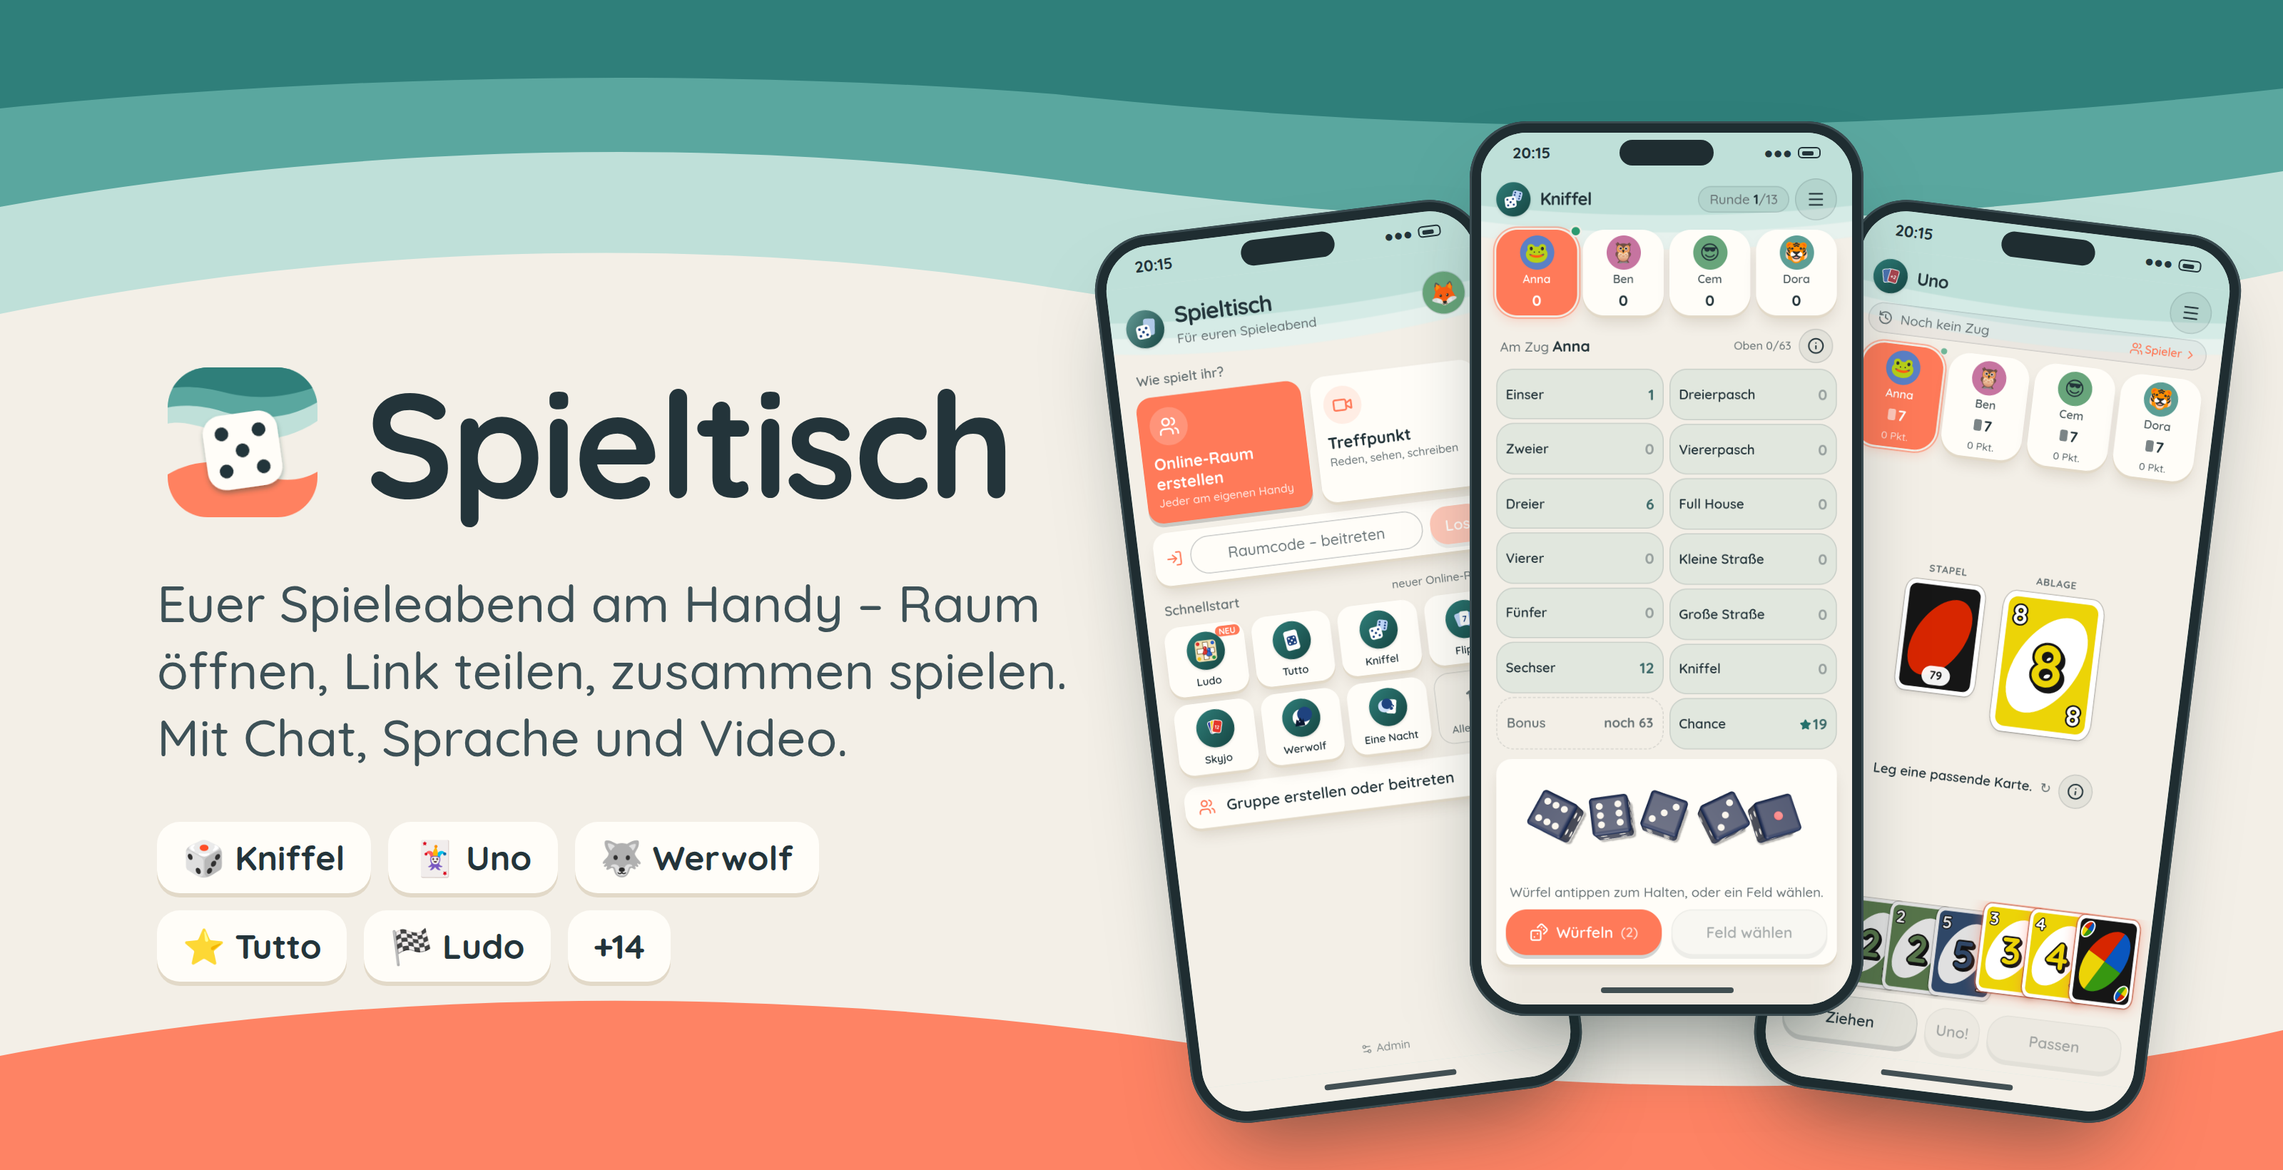
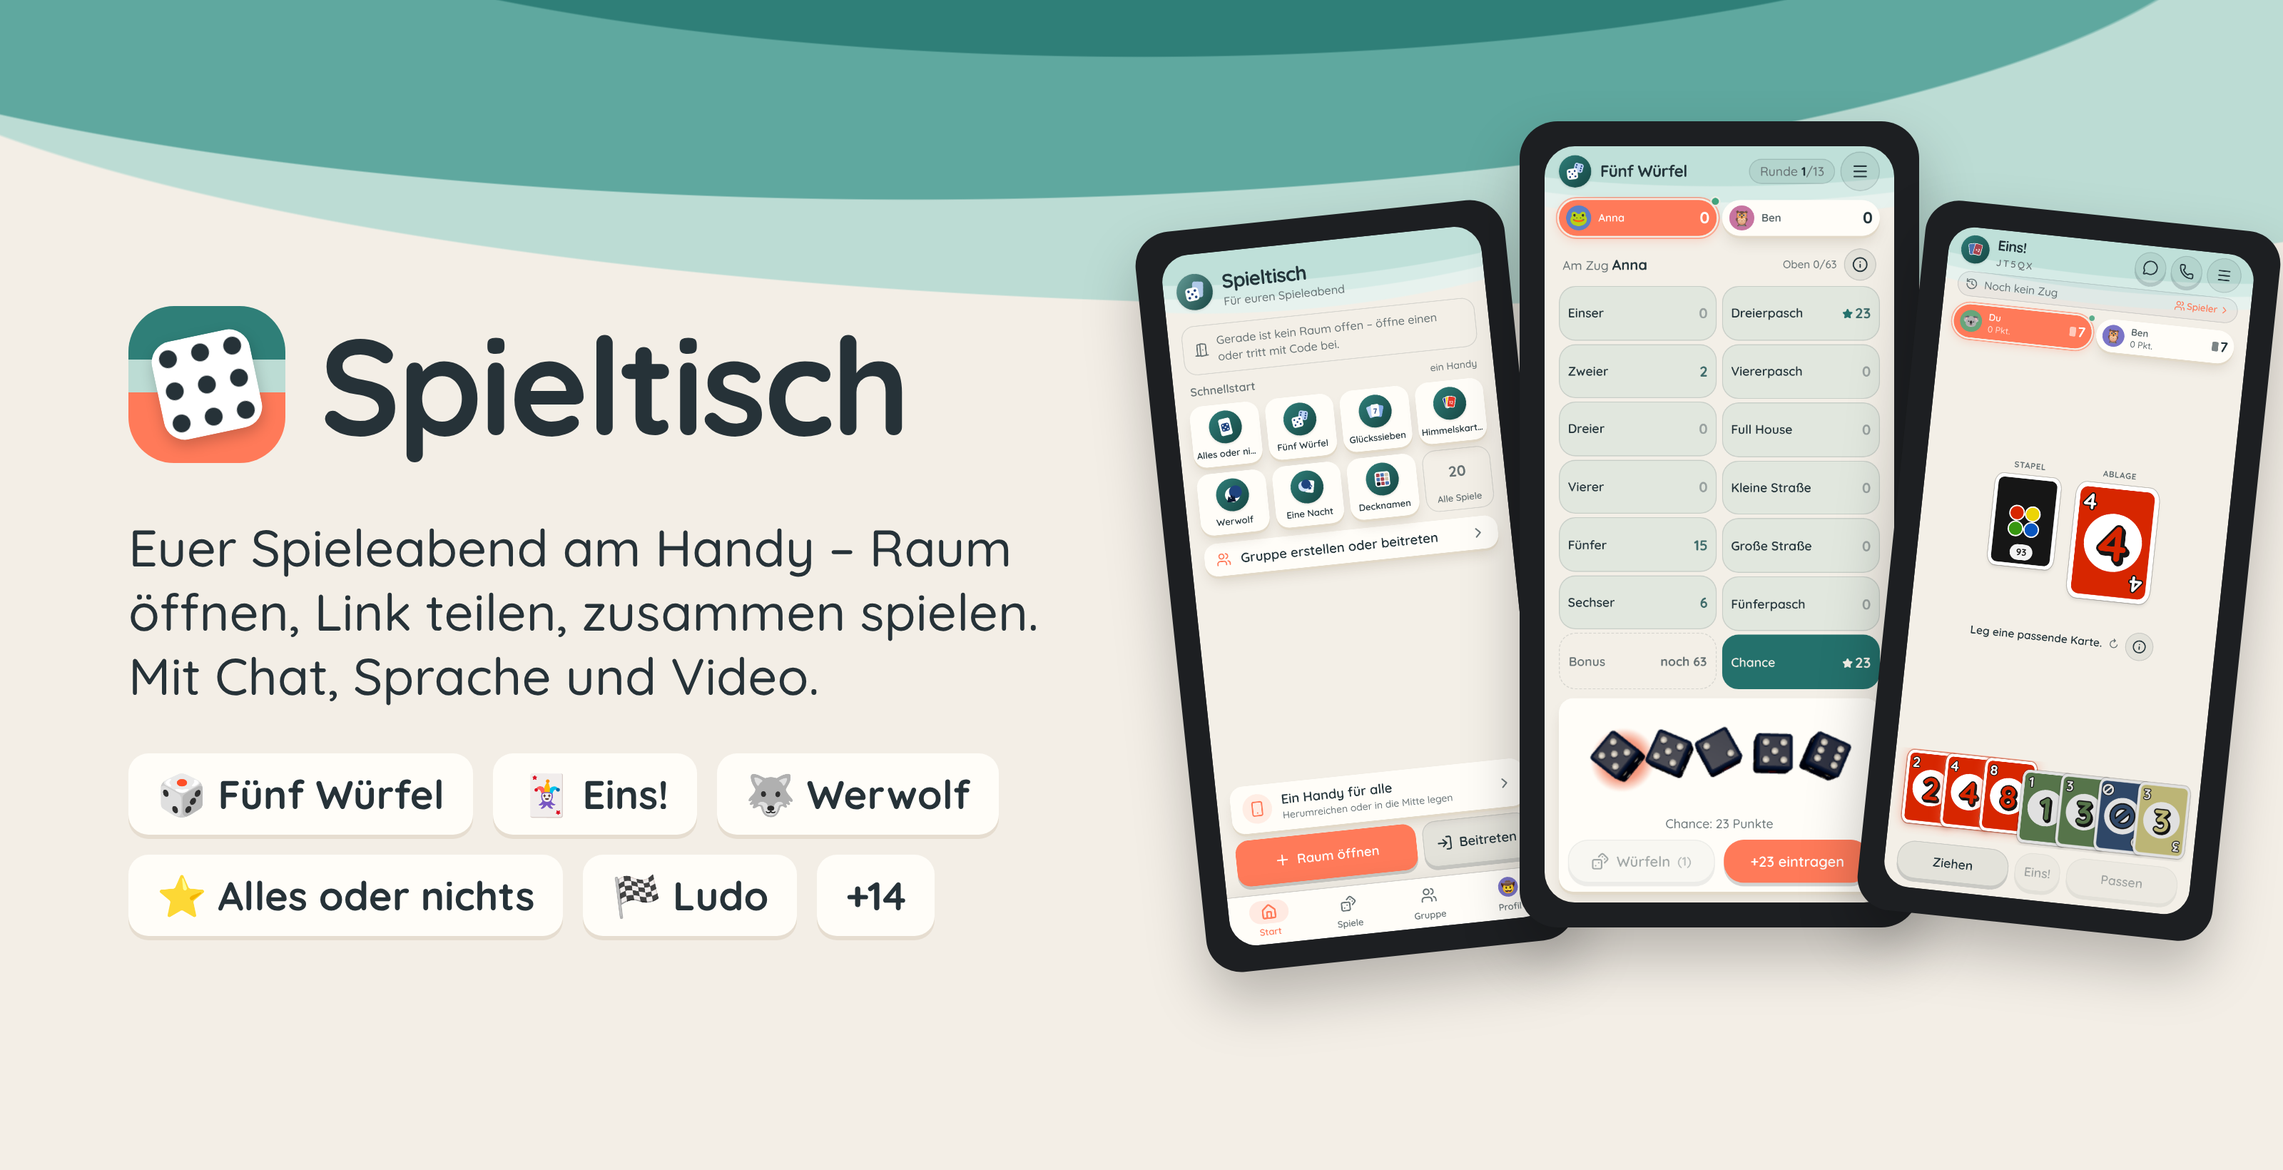
Stapelbau und Himmelskarten am Tisch (Beta), neue Werbebilder ohne Markennamen
- Bausteine „Stapel“ (Mitte) und „Auslage am Platz“ (unten: über dem Platz)
- Moderator-Sprechblase über der Kugel – verdeckt keinen Platz mehr
- Werbebilder per scripts/bilder.mjs aus frischen Screenshots
- „Partyabend planen“ passt in eine Zeile

Claude-Session: https://claude.ai/code/session_012QAHLP5tBdDc7ADJh6ArVM

diff --git a/src/pages/Table.tsx b/src/pages/Table.tsx
@@ -34,6 +34,7 @@ import { modeAllowed } from "@shared/platform/modes";
 import { SoundPanel, useTableSound } from "@/platform/table/sound";
 import { HostCorner, HostPanel, readMood, useTableHost } from "@/platform/table/host";
 import { FeltDice, FeltGrid } from "@/platform/table/blocks";
+import { FeltPiles, SeatBoard } from "@/platform/table/piles";
 import { CouchAdd, CouchPlayers, useCouch } from "@/platform/table/Couch";
 import { enableSpatialNav } from "@/lib/spatialNav";
 import { useCallReady, useCouchCam, useSeatVideos } from "@/platform/table/video";
@@ -310,7 +311,8 @@ export function TableStage({ room, online, model, sham, me, showSeats = true, on
         <Seat key={p.id} x={points[i].x} y={points[i].y} name={p.name} avatar={avatars[p.id]} count={sham ? undefined : model?.counts[p.id]}
           turn={model?.turn === p.id || sham?.czar === p.id} away={!online.has(p.id)} host={p.id === room.hostId}
           note={sham ? `${sham.scores[p.id] ?? 0} Pkt.${sham.czar === p.id ? " · Zar" : sham.phase === "pick" && sham.played[p.id] ? " · gelegt ✓" : ""}` : model?.notes?.[p.id]}
-          video={videos?.[p.id]} videoHidden={!!hiddenVideos?.has(p.id)} onToggleVideo={onToggleVideo ? () => onToggleVideo(p.id) : undefined} />
+          video={videos?.[p.id]} videoHidden={!!hiddenVideos?.has(p.id)} onToggleVideo={onToggleVideo ? () => onToggleVideo(p.id) : undefined}
+          board={model?.boards?.[p.id]} boardAbove={!!felt && points[i].y > felt.y + felt.h / 2} />
       ))}
       {reacts.map((r) => {
         const i = players.findIndex((p) => p.id === r.from);
@@ -318,9 +320,9 @@ export function TableStage({ room, online, model, sham, me, showSeats = true, on
         return at ? <span key={r.id} className="react-float pointer-events-none absolute text-6xl" style={{ left: at.x, top: at.y }} data-testid="table-react" aria-hidden>{r.emoji}</span> : null;
       })}
       {/* Bausteine auf dem Filz: Würfel, Spielfeld */}
-      {(model?.dice || model?.grid) && (
+      {(model?.dice || model?.grid || model?.piles) && (
         <OnFelt rect={felt}>
-          {model.grid ? <FeltGrid grid={model.grid} /> : model.dice && <FeltDice dice={model.dice} />}
+          {model.grid ? <FeltGrid grid={model.grid} /> : model.dice ? <FeltDice dice={model.dice} /> : model.piles && <FeltPiles piles={model.piles} />}
         </OnFelt>
       )}
       {/* Am Rechner sitzt oben ein Mitspieler – die Meldung steht dort unten auf dem Tisch */}
@@ -375,9 +377,13 @@ function TableCanvas({ model, seats, onSeats, forceFlat }: { model: TableModel |
   return <div ref={holder} className="absolute inset-0" />;
 }
 
-function Seat({ x, y, name, avatar, count, turn, away, host, note, video, videoHidden, onToggleVideo }: {
+function Seat({ x, y, name, avatar, count, turn, away, host, note, video, videoHidden, onToggleVideo, board, boardAbove }: {
   x: number; y: number; name: string; avatar?: Parameters<typeof Avatar>[0]["avatar"]; count?: number; turn: boolean; away: boolean; host: boolean; note?: string;
   video?: MediaStream; videoHidden?: boolean; onToggleVideo?: () => void;
+  /** offene Auslage des Spielers (z. B. Raster) unter dem Platz */
+  board?: NonNullable<TableModel["boards"]>[string];
+  /** Platz unten am Tisch: Auslage über dem Platz statt darunter (sonst ragt sie aus dem Bild) */
+  boardAbove?: boolean;
 }) {
   const showVideo = !!video && !videoHidden;
   const face = showVideo ? <SeatVideo stream={video} /> : <Avatar avatar={avatar} name={name} className="size-14 text-3xl" />;
@@ -396,6 +402,7 @@ function Seat({ x, y, name, avatar, count, turn, away, host, note, video, videoH
         {name}{count !== undefined && <span className="ml-1.5 tabular-nums opacity-75">· {count}</span>}{host && !count && count !== 0 ? <span className="ml-1 opacity-60">· Host</span> : null}
       </span>
       {note && <span className="text-sm font-semibold drop-shadow">{note}</span>}
+      {board && <div className={cn(boardAbove && "order-first")}><SeatBoard board={board} /></div>}
       {away && <span className="text-xs font-semibold">nicht verbunden</span>}
     </div>
   );

diff --git a/src/platform/table/piles.tsx b/src/platform/table/piles.tsx
@@ -1,0 +1,45 @@
+import { cn } from "@/lib/utils";
+import type { TableModel } from "./model";
+
+/**
+ * Bausteine für Zahlenkarten-Spiele am Tisch (über 3D- und flachem Tisch gleich):
+ *  - Stapel in der Mitte (Aufbaustapel, Ablage, Nachziehstapel) – die oberste Karte groß, darunter die Beschriftung,
+ *  - Auslage am Platz – kleines Raster offener Karten, verdeckte als „?“.
+ * Maße in cqh/cqw (Stapel, wachsen mit der Tischfläche) bzw. rem (Auslage unter dem Platzschild).
+ */
+
+/** Eine Zahlenkarte: Farbe als Rand und Zahl, weißes Feld */
+function NumCard({ text, tone, className }: { text: string; tone?: string; className?: string }) {
+  return (
+    <span className={cn("grid place-items-center rounded-[14%] border-[0.35em] bg-[#fbf7ef] font-bold text-[#1a1a1a] shadow-[0_4px_10px_rgb(0_0_0/0.35)]", className)}
+      style={{ borderColor: tone ?? "#8a6f4e", color: tone ?? "#1a1a1a" }}>{text}</span>
+  );
+}
+
+/** Stapel in der Mitte – leere als gestrichelter Platz, verdeckte (nur Anzahl) als Rückseite */
+export function FeltPiles({ piles }: { piles: NonNullable<TableModel["piles"]> }) {
+  return (
+    <div className="flex items-end justify-center gap-[2.4cqw]" data-testid="table-piles">
+      {piles.map((p, i) => (
+        <div key={i} className="flex flex-col items-center gap-[1.4cqh]" data-testid="table-pile">
+          {p.top !== null ? <NumCard text={p.top} tone={p.tone} className="h-[30cqh] w-[21cqh] text-[13cqh]" />
+            : p.count !== undefined ? (
+              <span className="grid h-[30cqh] w-[21cqh] place-items-center rounded-[14%] border-[0.6cqh] border-white bg-gradient-to-br from-[#2f6fb3] to-[#173a6b] text-[6cqh] font-bold text-white shadow-[0_4px_10px_rgb(0_0_0/0.35)]">{p.count}</span>
+            ) : <span className="h-[30cqh] w-[21cqh] rounded-[14%] border-[0.5cqh] border-dashed border-white/35" />}
+          <span className="text-[3.6cqh] font-semibold text-white/85 drop-shadow">{p.label}</span>
+        </div>
+      ))}
+    </div>
+  );
+}
+
+/** Auslage eines Spielers unter seinem Platz: offene Karten im Raster, verdeckte als „?“, leere Lücken bleiben frei */
+export function SeatBoard({ board }: { board: NonNullable<TableModel["boards"]>[string] }) {
+  return (
+    <div className="grid gap-[3px]" style={{ gridTemplateColumns: `repeat(${board.cols}, 1.7rem)` }} data-testid="seat-board">
+      {board.cells.map((c, i) => c === null ? <span key={i} className="h-[2.3rem]" />
+        : c === "?" ? <span key={i} className="grid h-[2.3rem] place-items-center rounded-[5px] border-2 border-white bg-[#24508f] text-xs font-bold text-white/70">?</span>
+        : <NumCard key={i} text={c.text} tone={c.tone} className="h-[2.3rem] text-sm" />)}
+    </div>
+  );
+}

diff --git a/tests/e2e/table.spec.ts b/tests/e2e/table.spec.ts
@@ -521,3 +521,42 @@ test("Bühne bei Schamlos: schwarze Karte groß auf der Leinwand, Antworten eing
     await setConfig(request, ALL_ON);
   }
 });
+
+test("Stapelbau und Himmelskarten am Tisch: Stapel in der Mitte, offene Auslage an jedem Platz", async ({ browser, request }) => {
+  test.setTimeout(120_000);
+  await setConfig(request, { ...ALL_ON, modes: { stapelbau: { table: "on" }, himmelskarten: { table: "on" } } });
+  try {
+    const screen = await newScreen(browser);
+    await screen.goto("/tisch");
+    await screen.getByTestId("table-new").click();
+    await expect(screen).toHaveURL(/\/tisch\/[A-Z0-9]{5}$/);
+    const code = screen.url().split("/").pop()!;
+    const pin = (await screen.evaluate((c) => localStorage.getItem(`spieltisch:table:${c}`), code))!;
+    const anna = await joinByLink(browser, code, pin, "Anna");
+    await joinByLink(browser, code, pin, "Ben");
+
+    // Stapelbau: vier Aufbaustapel und der Nachziehstapel, an jedem Platz Vorrat + vier Ablagen
+    await anna.getByTestId("meet-play").click();
+    await anna.getByTestId("pick-stapelbau").click();
+    await anna.getByRole("button", { name: "Spiel starten" }).click();
+    await expect(screen.getByTestId("table-pile")).toHaveCount(5);
+    await expect(screen.getByTestId("seat-board")).toHaveCount(2);
+    await expect(screen.getByTestId("seat-board").first().locator("span")).toHaveCount(5);
+    await screen.waitForTimeout(500);
+    await shot(screen, "9c-tisch-stapelbau");
+
+    // Himmelskarten: Ziehen und Ablage in der Mitte, 12 Karten je Platz – anfangs verdeckt
+    await anna.getByRole("button", { name: "Menü" }).click();
+    await anna.getByRole("button", { name: "Spiel wechseln" }).click();
+    await anna.getByRole("button", { name: "Spiel wählen" }).click();
+    await anna.getByTestId("pick-himmelskarten").click();
+    await anna.getByRole("button", { name: "Spiel starten" }).click();
+    await expect(screen.getByTestId("table-pile")).toHaveCount(2);
+    await expect(screen.getByTestId("seat-board").first().locator("span")).toHaveCount(12);
+    await expect(screen.getByTestId("seat-board").first()).toContainText("?");
+    await screen.waitForTimeout(500);
+    await shot(screen, "9d-tisch-himmelskarten");
+  } finally {
+    await setConfig(request, ALL_ON);
+  }
+});

diff --git a/tests/unit/table.test.ts b/tests/unit/table.test.ts
@@ -49,5 +49,25 @@ describe("Großer Tisch: Modell aus der Sicht ohne eigene Karten", () => {
     expect(g.cells[0][3]).toBeNull();
     expect(g.last).toEqual([3, 5]);
   });
+
+  it("Zahlenkarten: Stapelbau zeigt Aufbaustapel und Vorrat + Ablagen am Platz, Himmelskarten das Raster – nur Offenes", () => {
+    const sb = viewRoom(act(roomWith(["Anna", "Ben"], "stapelbau"), { type: "start" }), WATCH_ID);
+    const m = tableModel(sb)!;
+    expect(m.piles?.map((p) => p.label)).toEqual(["Stapel 1", "Stapel 2", "Stapel 3", "Stapel 4", "Ziehen"]);
+    expect(m.piles?.slice(0, 4).every((p) => p.top === null)).toBe(true);
+    expect(m.boards?.p1.cells).toHaveLength(5);
+    // oberste Vorratskarte offen, Ablagen anfangs leer
+    expect(m.boards?.p1.cells[0]).not.toBeNull();
+    expect(m.boards?.p1.cells.slice(1).every((c) => c === null)).toBe(true);
+    expect(m.notes?.p1).toMatch(/^Vorrat \d+$/);
+
+    const sk = viewRoom(act(roomWith(["Anna", "Ben"], "himmelskarten"), { type: "start" }), WATCH_ID);
+    const h = tableModel(sk)!;
+    expect(h.boards?.p1.cols).toBe(4);
+    expect(h.boards?.p1.cells).toHaveLength(12);
+    // am Anfang alles verdeckt – der Tisch kennt die Werte nicht
+    expect(h.boards?.p1.cells.every((c) => c === "?")).toBe(true);
+    expect(h.piles?.[1].top).not.toBeNull();
+  });
 });
 

diff --git a/src/platform/table/host.tsx b/src/platform/table/host.tsx
@@ -134,9 +134,10 @@ export function HostCorner({ say, mood }: { say: Say | null; mood: Mood }) {
   }, []);
 
   return (
-    <div className="pointer-events-none absolute right-6 bottom-5 flex max-w-[min(34rem,60%)] items-end justify-end gap-2" data-testid="table-host">
+    // Sprechblase über der Kugel (rechts außen) – so verdeckt sie nie den Platz unten in der Mitte
+    <div className="pointer-events-none absolute right-6 bottom-5 flex w-[min(24rem,32%)] flex-col items-end gap-2" data-testid="table-host">
       {say && (
-        <p className={cn("text-in mb-6 rounded-2xl rounded-br-sm bg-[#f7ecd6] px-4 py-3 text-lg leading-snug font-semibold text-[#2b2118] shadow-xl", talking && "ring-2 ring-white/60")}
+        <p className={cn("text-in rounded-2xl rounded-br-sm bg-[#f7ecd6] px-4 py-3 text-lg leading-snug font-semibold text-[#2b2118] shadow-xl", talking && "ring-2 ring-white/60")}
           data-testid="table-host-line" aria-live="polite">{say.text}</p>
       )}
       <OrbHost mouth={mouth} blink={blink} mood={mood} className="size-36 shrink-0" />

diff --git a/src/platform/Evening.tsx b/src/platform/Evening.tsx
@@ -32,7 +32,7 @@ export function EveningLine({ className }: { className?: string }) {
       <>
         <button type="button" onClick={() => setPlanning(true)} data-testid="plan-open"
           className={cn("flex w-full items-center justify-center gap-2 rounded-xl py-1.5 text-sm font-semibold text-primary", className)}>
-          <PartyPopper className="size-4" />Partyabend planen – mehrere Spiele mit Gesamtwertung
+          <PartyPopper className="size-4" />Partyabend planen · Gesamtwertung
         </button>
         <PlanSheet open={planning} onOpenChange={setPlanning} />
       </>

diff --git a/shared/platform/modes.ts b/shared/platform/modes.ts
@@ -28,6 +28,9 @@ export const GAME_MODES: Record<string, Partial<Record<PlayMode, ModeState>>> = 
   // Bausteine Würfel und Spielfeld: abgenommen (docs/abnahme/fuenfwuerfel.md, vier.md)
   fuenfwuerfel: { table: "on", stage: "beta" },
   vier: { table: "on", stage: "beta" },
+  // Bausteine Stapel und Auslage am Platz – Beta bis zur Abnahme
+  stapelbau: { table: "beta" },
+  himmelskarten: { table: "beta" },
 };
 
 /** Spiele mit eigener Tisch-Ansicht (andere zeigt der Tisch wie ein Handy in der Mitte) */

diff --git a/tests/unit/modes.test.ts b/tests/unit/modes.test.ts
@@ -23,7 +23,7 @@ describe("Spielweisen je Spiel", () => {
     expect(modeAllowed({ eins: { table: "off" } }, "eins", "table", true)).toBe(false);
   });
   it("Tisch-Spiele sind echte Spiele", () => {
-    expect(TABLE_GAMES).toEqual(["maumau", "eins", "schamlos", "fuenfwuerfel", "vier"]);
+    expect(TABLE_GAMES).toEqual(["maumau", "eins", "schamlos", "fuenfwuerfel", "vier", "stapelbau", "himmelskarten"]);
     for (const id of Object.keys(GAME_MODES)) expect(id in GAMES).toBe(true);
   });
 });

diff --git a/docs/entwicklung.md b/docs/entwicklung.md
@@ -116,7 +116,7 @@ Unter `/tisch` baut ein großer Bildschirm einen Raum auf (oder zeigt einen lauf
 
 **Bühne (Showstudio)** (`src/platform/table/studio.ts`, `StudioStage` in `src/pages/Table.tsx`): 3D-Studio mit Leinwand und Pulten; die Seite legt Leinwand (`screenRect`) und Pult-Schilder (`podiumPoints`) als HTML darüber. Auf der Leinwand läuft der flache Tisch des Spiels (`TableStage flat`) bzw. vor der Partie Lobby oder Siegerehrung. Nur mit 3D und wenn die Spielweise `stage` für das Spiel erlaubt ist; bewegt nur ohne „reduzierte Bewegung“ (Scheinwerfer, Lichtleisten, ~30 Bilder/s), Kamerafahrt meldet sich über `onMove`.
 
-**Keine Markennamen:** Spiele heißen in der App, im Code, in Kennungen und Dateinamen nur mit eigenen Namen. Frühere Kennungen gespeicherter Daten übersetzt allein `shared/games/renamed.ts` (rückwärts geschrieben): Räume über das Raum-Format 2 (`ROOM_MIGRATIONS[1]`, auch Spielstand-Felder und Einstellungen), Statistik/Einstellungen/Archiv/Profile/Gruppen beim Laden (`renameStored`), Anfragen älterer Apps in `readBody`, Gerätespeicher in `readStr`/`readJSON`/`readLocal`, alte Links in `useRoute`. Neue Namen nie mit einer Marke verwechselbar wählen.
+**Keine Markennamen:** Spiele heißen in der App, im Code, in Kennungen und Dateinamen nur mit eigenen Namen. Frühere Kennungen gespeicherter Daten übersetzt allein `shared/games/renamed.ts` (rückwärts geschrieben): Räume über das Raum-Format 2 (`ROOM_MIGRATIONS[1]`, auch Spielstand-Felder und Einstellungen), Statistik/Einstellungen/Archiv/Profile/Gruppen beim Laden (`renameStored`), Anfragen älterer Apps in `readBody`, Gerätespeicher in `readStr`/`readJSON`/`readLocal`, alte Links in `useRoute`. Neue Namen nie mit einer Marke verwechselbar wählen. Werbebilder (`docs/images/*.png`, `public/og.png`) baut `node scripts/bilder.mjs` aus den Screenshots eines Testlaufs.
 
 **Partyabend** (`evening.plan` in `shared/platform/room.ts`): der Host legt mit `setPlan` 2–8 Spiele fest (`null` beendet den Plan). Jedes Spielende zählt `played` hoch, `toLobby` wählt das nächste Spiel mit Standard-Einstellungen, Rückgängig zählt zurück; `planStatus()` liefert nächstes Spiel und ob der Abend durch ist. Gewertet wird über die Abendliste (`eveningRanking`). Handy: Planen und Beenden im Abend-Blatt (`src/platform/Evening.tsx`); Fernseher: `PartyBoard` mit Zwischenstand bzw. Podest statt der Lobby-Karte.
 

diff --git a/docs/roadmap.md b/docs/roadmap.md
@@ -59,9 +59,9 @@ Erledigt: Spielweisen je Spiel (an/Beta/aus in der Verwaltung) ✅ · Grafik-Stu
 
 ## Phase 3 – Spiel für Spiel komplett 🔨
 
-**Keine Markennamen** ✅: Spiele mit Markennamen heißen jetzt Eins!, Stapelbau, Zehn Phasen, Decknamen, Himmelskarten, Glückssieben, Fünf Würfel und Alles oder nichts – in der App, im Code, in Kennungen und Dateinamen. Alte Räume, Statistiken, Profile, Gruppen, Einstellungen und Links laufen weiter (`shared/games/renamed.ts`). Offen: Bilder in `docs/images` neu aufnehmen.
+**Keine Markennamen** ✅: Spiele mit Markennamen heißen jetzt Eins!, Stapelbau, Zehn Phasen, Decknamen, Himmelskarten, Glückssieben, Fünf Würfel und Alles oder nichts – in der App, im Code, in Kennungen und Dateinamen. Alte Räume, Statistiken, Profile, Gruppen, Einstellungen und Links laufen weiter (`shared/games/renamed.ts`). Werbebilder neu aus aktuellen Screenshots (`node scripts/bilder.mjs`) ✅.
 
-**Stand:** abgenommen Mau-Mau, Eins!, Schamlos, Fünf Würfel, Vier in einer Reihe ✅ · am Tisch in Arbeit: Stapelbau, Himmelskarten (Bausteine „Stapel“ und „Auslage am Platz“) 🔨
+**Stand:** abgenommen Mau-Mau, Eins!, Schamlos, Fünf Würfel, Vier in einer Reihe ✅ · am Tisch als Beta: Stapelbau, Himmelskarten (neue Bausteine „Stapel“ in der Mitte und „Auslage am Platz“) ✅ – Abnahme nach dem Ausprobieren
 
 „Komplett“ = am Tisch spielbar (nur Rechner · Tisch + Handy · nur Handy; 3D und einfacher Tisch) · Bühne, wo es passt · Moderator-Ansagen · Bots mit Spielstärke. Reihenfolge nach Beliebtheit (Statistik), Mau-Mau, Eins!, Schamlos zuerst.
 
